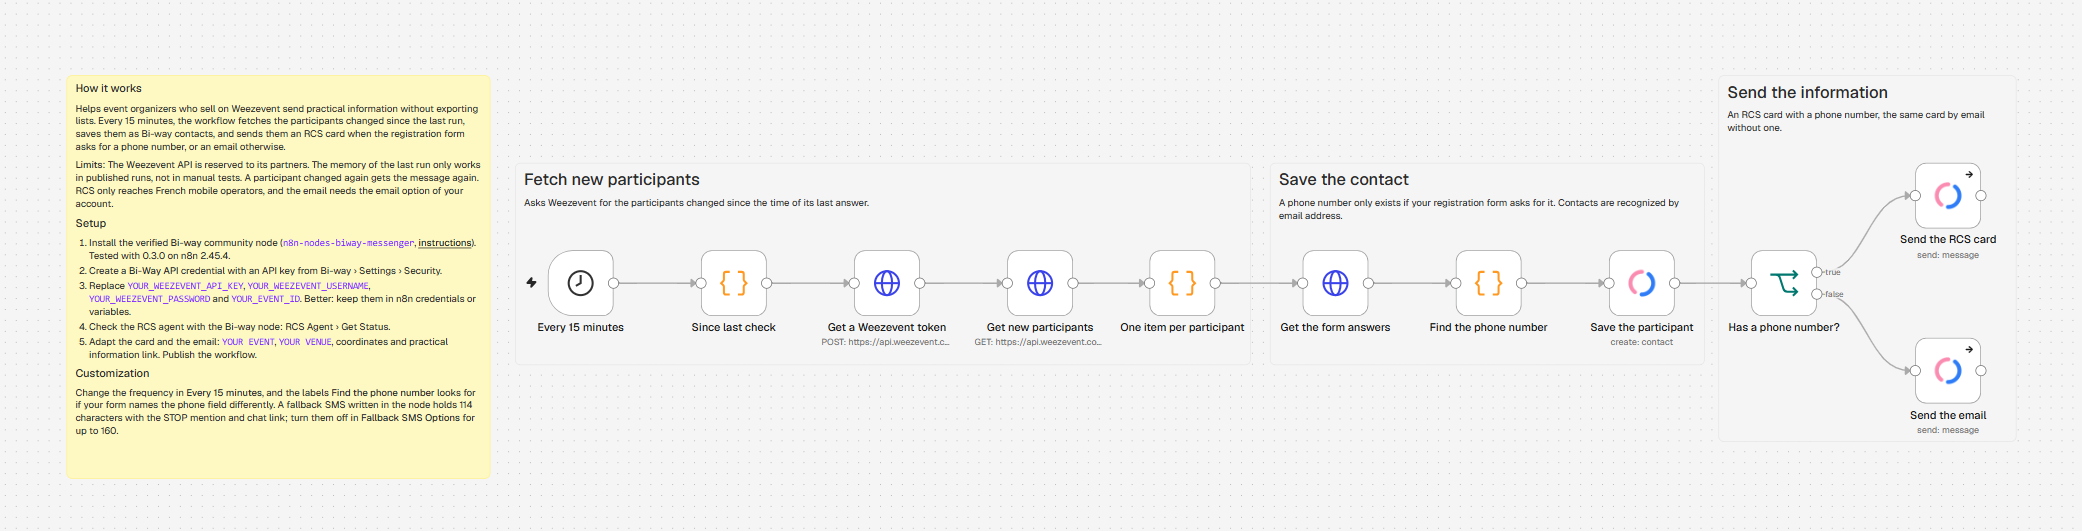
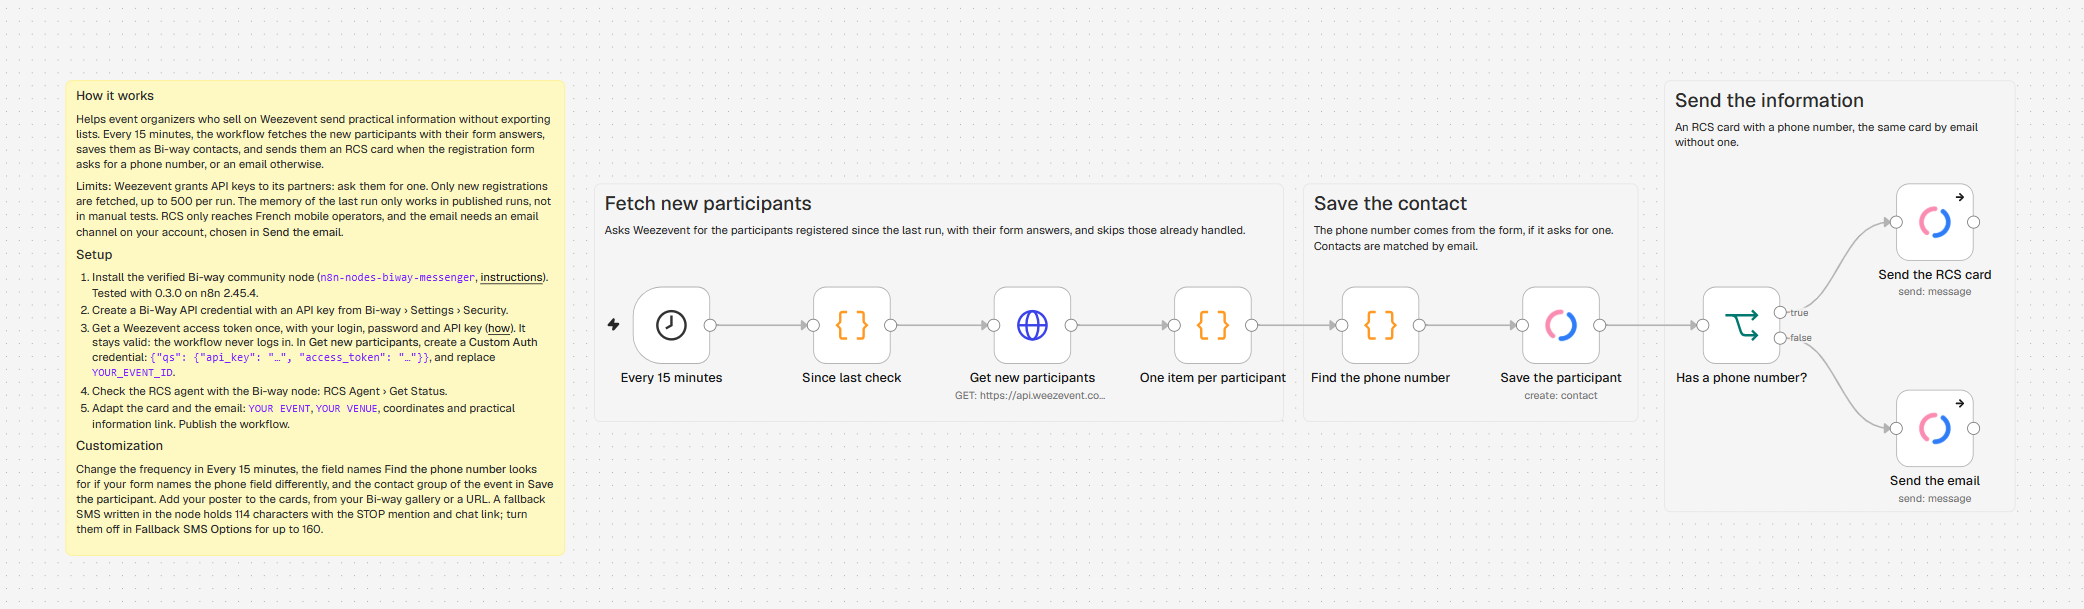
feat(examples): Weezevent ticket holders on the v3 API, tested for real
The example is run from start to finish against a Weezevent test event and a
Bi-way test account: the RCS card reached a phone, the email arrived.

- Weezevent API v3: one call returns the new participants and their form
  answers, instead of a login and a call per participant.
- No credentials in parameters: the login, password and API key serve once to
  get a persistent access token; the API key and the token go in a Custom Auth
  credential, as Weezevent asks.
- Dates in UTC, as Weezevent stores and compares last_update; a one-hour
  overlap, and the participants already handled are remembered, so none gets
  the message twice.
- Weezevent's Mobile phone field comes as form.portable; French numbers in any
  usual writing become +33.
- The contact group of the event is chosen in Save the participant.
- Notes: the email channel is chosen in Send the email; the poster is to add
  to the cards. Screenshot taken again.
- docs/templates-submission.md: Weezevent becomes the sixth template, submitted
  last, with its texts and test results.
- docs/integration-n8n-fr.md: the Bi-way menu is Réglages, not Paramètres.

diff --git a/docs/templates-submission.md b/docs/templates-submission.md
@@ -31,11 +31,11 @@ creator and accepts batches of four.
 3. Order notifications
 4. Inbound reply to team inbox
 5. Form to welcome message
+6. Weezevent ticket holders
 
-The form comes last because it has three nodes, and n8n asks more of short workflows: "a trigger connected to a single
-action" needs "more context or reusable logic". If it is refused, nothing else depends on it.
-
-Weezevent ticket holders stays on GitHub for now, see [the end of this document](#not-submitted-yet-weezevent-ticket-holders).
+The form comes late because it has three nodes, and n8n asks more of short workflows: "a trigger connected to a single
+action" needs "more context or reusable logic". If it is refused, nothing else depends on it. Weezevent comes last: its
+API is reserved to Weezevent partners, so a reviewer may not be able to run it.
 
 ## Prerequisites of every template
 
@@ -154,22 +154,41 @@ Weezevent ticket holders stays on GitHub for now, see [the end of this document]
 > Limits: RCS only reaches French mobile operators. The phone number must be in international format: the form does not
 > check it, and Bi-way refuses another format. Someone who sends the form again gets the welcome message again.
 
-## Not submitted yet: Weezevent ticket holders
+### 6. Weezevent ticket holders
 
-[`examples/weezevent-ticket-holders.json`](../examples/weezevent-ticket-holders.json) stays on GitHub until three
-things are done:
+- **File**: [`examples/weezevent-ticket-holders.json`](../examples/weezevent-ticket-holders.json), 9 nodes
+- **Title**: Send Weezevent ticket holders their practical information by RCS or email with Bi-way
+- **Short description**: Every 15 minutes, save the new participants of a Weezevent event as Bi-way contacts and send
+  them an RCS card, or the same card by email when they gave no mobile number.
+- **Categories (proposal)**: Marketing
+- **Also needed**: a Weezevent API key, which Weezevent grants to its partners, and an access token obtained once with
+  it, in a Custom Auth credential; the ID of the event; the **Mobile phone** field in its registration form for RCS; an
+  email channel on the Bi-way account for the others.
+- **Screenshot**: [`examples/images/weezevent-ticket-holders.png`](../examples/images/weezevent-ticket-holders.png)
 
-- **A run with a real Weezevent API key.** Weezevent grants API keys to its registered partners and asks to be
-  contacted for one. n8n wants the exact JSON run from start to finish, with the result checked in the destination
-  service: ask for a key for an organizer account, and run the workflow on a free test event.
-- **Credentials instead of parameters.** The API key, username and password of Weezevent are placeholders in HTTP
-  Request nodes, and n8n wants credentials there, never keys or passwords in parameters.
-- **The v3 API.** The example calls `/participant/list` and `/participant/:id/answers`, which the
-  [Weezevent API portal](https://docapi.weezevent.com/) says should not be used anymore. The v3
-  `/v3/evenement/:id/participants` returns the form answers in the same call, and its `last_update` keeps the
-  participants registered after the date: a participant changed later no longer gets the message twice.
+**Long description**
 
-Then run the same tests as the others and submit it last.
+> Send ticket holders their practical information without exporting lists. Every 15 minutes, this workflow asks
+> Weezevent for the participants registered since its last run, with their answers to the registration form, and saves
+> each one as a Bi-way contact, in the contact group of your choice. Participants who gave a mobile number get an RCS
+> card with a link to your practical information and a map of the venue; the others get the same card by email.
+>
+> Limits: the Weezevent API is reserved to Weezevent partners. Only new registrations are fetched, up to 500 per run, and
+> the memory of the last run only works in published runs. RCS only reaches French mobile operators.
+
+**Tested**
+
+- **Credentials instead of parameters.** The login, password and API key serve once, to get a persistent access
+  token. The API key and that token go in a Custom Auth credential, so the workflow never logs in, as Weezevent asks.
+- **The v3 API.** `/v3/evenement/:id/participants?loadFormAnswers=1` returns the form answers in the same call, and
+  `last_update` keeps the participants registered after the date. The workflow fetches with a one-hour overlap and
+  remembers the participants already handled, so none gets the message twice.
+- **Checked on a test event (2026-11-04).** Weezevent stores and compares `last_update` in UTC, so the workflow
+  writes it in UTC. Weezevent's own **Mobile phone** field comes in `form` as `portable`, written `+33 6 12 34 56 78`;
+  a participant registered without it has no `portable` key.
+- **Run with real sends (2026-11-04).** The JSON as shipped, against the test event and a Bi-way test account: the
+  RCS card reached a phone on SFR, and the email arrived through the account's SMTP channel. Bi-way refuses an email
+  address with a `+` or a top-level domain longer than four letters (`.paris`): use another address to test.
 
 ## Checks
 
@@ -211,5 +230,6 @@ the version named in the notes is published: they say "Tested with 0.3.0 on n8n 
 - [ ] Review request: real sheet and SMTP, each rating on your own number, the review link opens
 - [ ] Order notifications: a test order in a WooCommerce shop, the card received, the tracking link opens
 - [ ] Inbound reply to team inbox: a real message per keyword, each email received
+- [x] Weezevent ticket holders: done on 2026-11-04, see [above](#6-weezevent-ticket-holders)
 - [ ] Form to welcome message: the form sent twice, one contact in Bi-way, two welcome messages
 - [ ] Import each JSON once more on n8n Cloud

diff --git a/CLAUDE.md b/CLAUDE.md
@@ -109,11 +109,12 @@ for n8n's template library), `review-request.json`, `order-notifications.json`, 
 - [x] E-commerce order notifications (card, tracking button, SMS fallback)
 - [x] Inbound reply to team inbox
 - [x] Form to welcome message (contact create or update)
-- [x] Weezevent ticket holders: Schedule Trigger + HTTP Request on the Weezevent API (partner
-      access, `POST /auth/access_token`, `GET /participant/list` with `last_update`; no documented
-      webhook), contact in a group, RCS message, or email when no phone number. A participant only has name and email
-      (`owner`); a phone number exists only if the organizer adds a question to the registration
-      form, read from `GET /participant/{id}/answers` (`answers[]` of `label` / `value`)
+- [x] Weezevent ticket holders: Schedule Trigger + HTTP Request on the Weezevent API v3 (partner
+      access, no documented webhook): `GET /v3/evenement/:id/participants?loadFormAnswers=1` with
+      `last_update` (registrations after the date, in UTC: one-hour overlap, and the participants
+      already handled are remembered). API key and persistent access token (`POST /auth/access_token`,
+      once) in a Custom Auth credential. A phone number exists only if the registration form asks for
+      it (`form`); contact in the group chosen in the node, RCS card, or email when no phone number
 - [x] `examples/README.md` with audience (canvas screenshots: TODO, taken in phase 4)
 - [x] Every example checked against the node definitions of n8n 2.45.4 (known type and version,
       no dropped parameter, no parameter issue)
@@ -213,5 +214,9 @@ for n8n's template library), `review-request.json`, `order-notifications.json`, 
       version: new fields (`warnings`, `fallback_reason`) and Add Chat Link on by default
 - [ ] Tag `0.3.0` pushed by the maintainer after `main` (GitHub and gogs) and a green CI; then the
       official scanner, and the GitHub Releases for 0.2.0 and 0.3.0
-- [ ] Weezevent example on the v3 API (`/v3/evenement/:id/participants?loadFormAnswers=1`), keys in
-      n8n credentials, run with a real Weezevent API key before submitting it as a template
+- [x] Weezevent example on the v3 API (`/v3/evenement/:id/participants?loadFormAnswers=1`), API key
+      and access token in a Custom Auth credential (2026-11-04)
+- [x] Weezevent API checked on a test event (2026-11-04): `last_update` in UTC, Mobile phone field
+      in `form.portable`
+- [x] Weezevent example run with the RCS card and the email really sent (2026-11-04); to submit after
+      the other templates

diff --git a/docs/integration-n8n-fr.md b/docs/integration-n8n-fr.md
@@ -54,12 +54,12 @@ Des workflows d'exemple prêts à importer accompagnent le paquet
 1. **Un compte Bi-way** : [créez-le en ligne](https://v3.bi-way.fr/signup). L'accès à l'API est
    inclus. L'offre gratuite ouvre le SMS, avec 20 crédits offerts ; pour le RCS, choisissez l'offre
    Pro (point 3). L'e-mail se met en place à part (point 4).
-2. **Une clé d'API** : dans Bi-way, **Paramètres › Sécurité › Clés d'API**, bouton **Créer une clé**.
+2. **Une clé d'API** : dans Bi-way, **Réglages › Sécurité › Clés d'API**, bouton **Créer une clé**.
    Notez le jeton et le secret : le secret ne s'affiche qu'une fois. Vous pouvez révoquer une clé à
    tout moment.
 3. **Pour le RCS**, un service de chat RCS déclaré par votre entreprise et lancé par les opérateurs :
    déclarez-le sur le [formulaire de déclaration RCS](https://app.bi-way.fr/rcs-registration/) ou dans
-   les paramètres de votre service de chat dans Bi-way (des frais de déclaration s'appliquent). Le RCS
+   les réglages de votre service de chat dans Bi-way (des frais de déclaration s'appliquent). Le RCS
    n'est disponible aujourd'hui que vers les numéros des opérateurs mobiles français.
 4. **Pour l'e-mail**, l'option e-mail de votre compte, mise en place par Bi-way : Mailjet (canal
    `email`) ou SMTP (canal `email_smtp`).

diff --git a/examples/README.md b/examples/README.md
@@ -19,7 +19,7 @@ are then left out.
 
 Placeholders: `YOUR_SHEET_ID`, `team@example.com` and the other `@example.com` addresses,
 `https://g.page/r/YOUR_PLACE_ID/review`, `https://tracking.example.com/`, `https://www.example.com`,
-`YOUR_WEEZEVENT_*`, `YOUR_EVENT_ID`, `YOUR EVENT` and `YOUR VENUE`.
+`YOUR_EVENT_ID`, `YOUR EVENT` and `YOUR VENUE`.
 
 ## The workflows
 
@@ -66,4 +66,4 @@ The workflows as they open in the n8n editor.
 
 ### Weezevent ticket holders
 
-![Weezevent ticket holders: the Weezevent API calls, the contact saved in Bi-way, then an RCS card or an email](images/weezevent-ticket-holders.png)
+![Weezevent ticket holders: the Weezevent API call, the contact saved in Bi-way, then an RCS card or an email](images/weezevent-ticket-holders.png)

diff --git a/CHANGELOG.md b/CHANGELOG.md
@@ -1,5 +1,15 @@
 # Changelog
 
+## Unreleased
+
+### Changed
+
+- **Examples › Weezevent ticket holders**: Weezevent API v3, with the participants and their form
+  answers in one call. The API key and a persistent access token go in an n8n Custom Auth credential,
+  instead of the login, password and key in parameters. The participants already handled are
+  remembered, so none gets the message twice, and the contact group of the event is chosen in
+  **Save the participant**.
+
 ## 0.3.0
 
 ### Added
